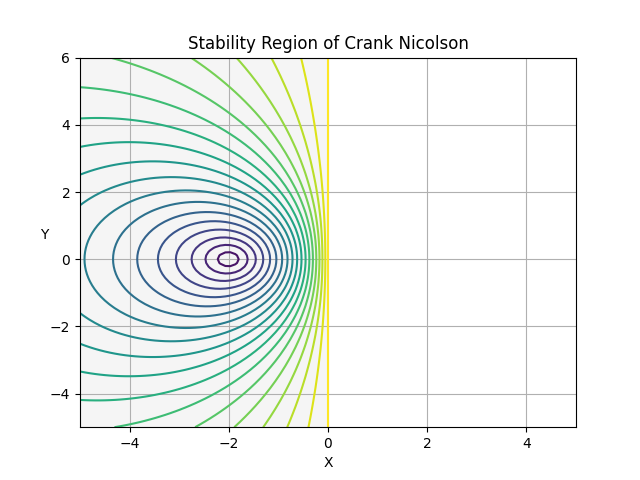
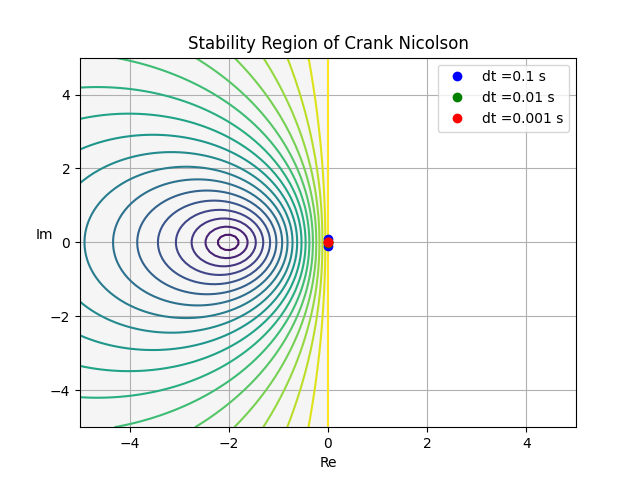
MIL4 Leapfrog sol

diff --git a/sources/MILESTONE_04.py b/sources/MILESTONE_04.py
@@ -30,17 +30,32 @@ def Mil4( tf, N, U0):
         #plt.show()
         plt.close()
         
+        
         rho,x,y = StabilityRegion(schemes[i])
         
         plt.title(f'Stability Region of {schemes[i].__name__}')
-        plt.xlabel("X")
-        plt.ylabel("Y",rotation = 0)
+        plt.xlabel("Re")
+        plt.ylabel("Im",rotation = 0)
         #plt.axis('equal')
         plt.grid()
-        #plt.contour( x, y, transpose(rho), levels = [0, 1],colors = ['#b300ff'])
-        plt.contour( x, y, transpose(rho), linspace(0, 1, 20) )
-        #plt.colorbar()
-        plt.contourf( x, y, transpose(rho), levels = [0,1], colors = 'whitesmoke')
+    
+        if schemes[i] == LeapFrog:
+            Im = linspace(-5,5,100)
+            Re = zeros(100)
+            plt.plot(Re, Im, color = 'y')
+            #plt.show()
+        else:
+            plt.contour( x, y, transpose(rho), linspace(0, 1, 20) )
+            plt.contourf( x, y, transpose(rho), levels = [0,1], colors = 'whitesmoke')
+        
+        color2 = ['b','g','r']
+        for j in range(size(N)):
+            dt = tf/(N[j]-1)
+            plt.plot([0,0], [dt,-dt], 'o', color = color2[j], label = 'dt =' + str(dt) + ' s')
+            
+        plt.legend()
+        plt.xlim([-5,5])
+        plt.ylim([-5,5])
         plt.savefig('MILESTONE 4/' + 'SR of'+ schemes[i].__name__+'.png')
         #plt.show()
         plt.close()

diff --git a/sources/AM1_LIBRARY/NUMERIC/ERROR.py b/sources/AM1_LIBRARY/NUMERIC/ERROR.py
@@ -77,9 +77,9 @@ def ErrorNum( Kepler, Scheme, t, U0, order):
     return E
 
 def StabilityRegion(Scheme):
-    
+    #PARA METODOS UNIPASO
     N = 100
-    x, y = linspace(-5, 5, 100), linspace(-5, 6, 100)
+    x, y = linspace(-5, 5, 100), linspace(-5, 5, 100)
     rho =  zeros( (N, N),  dtype=float64)
 
     for i in range(N): 
